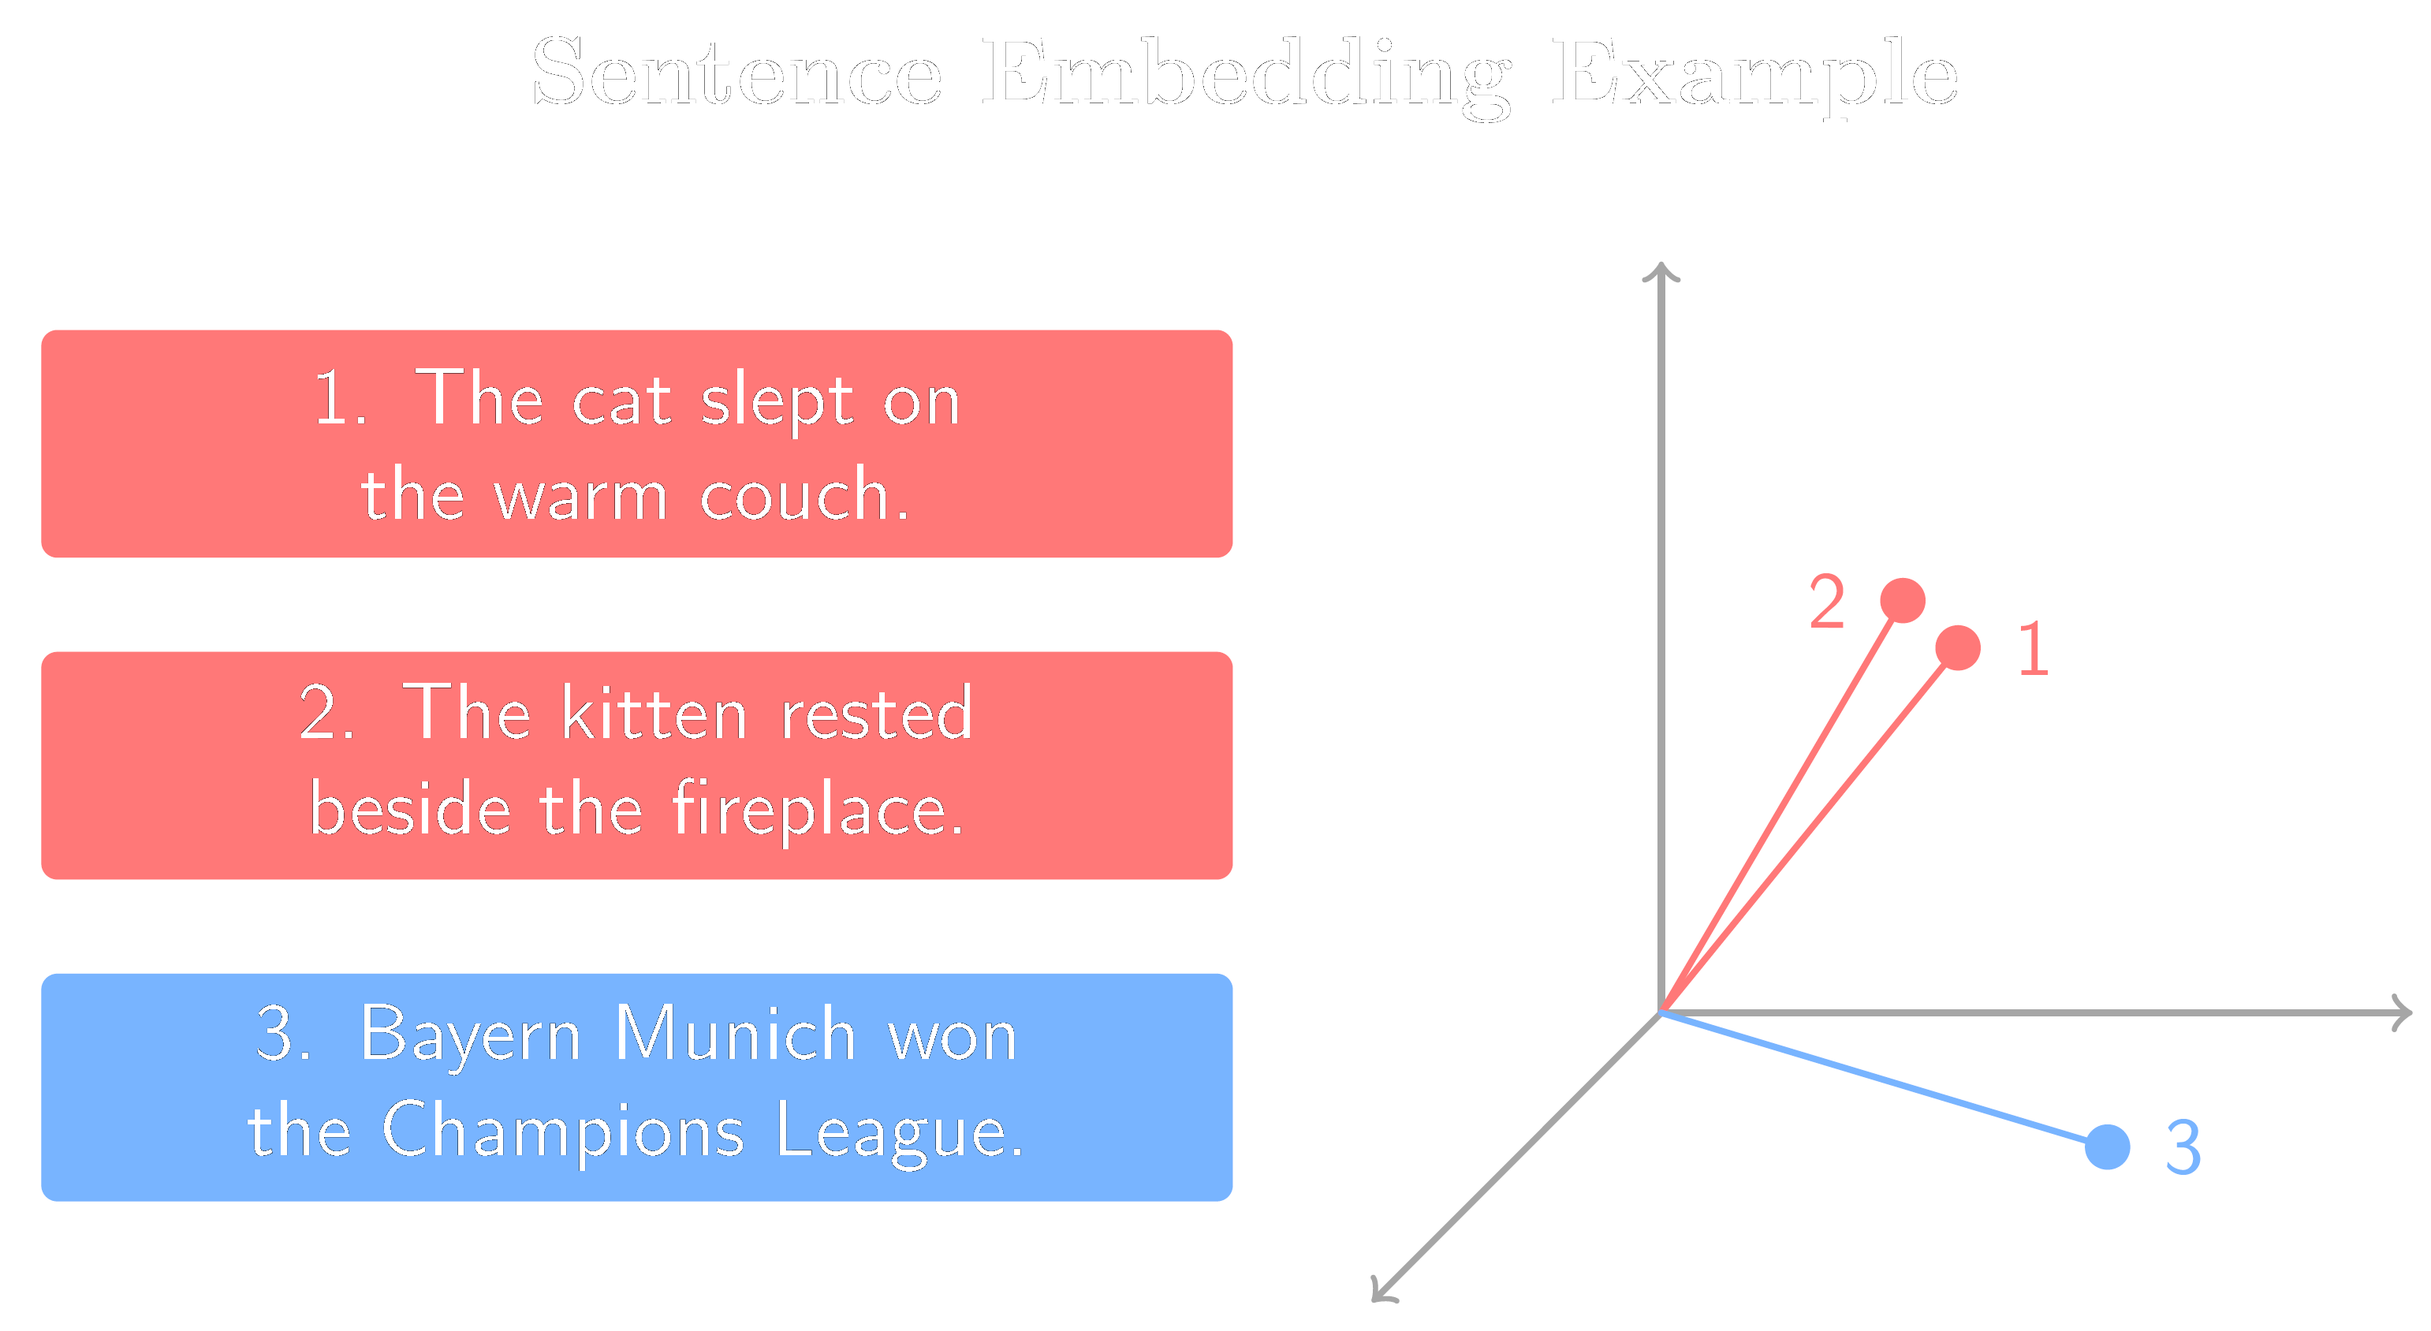
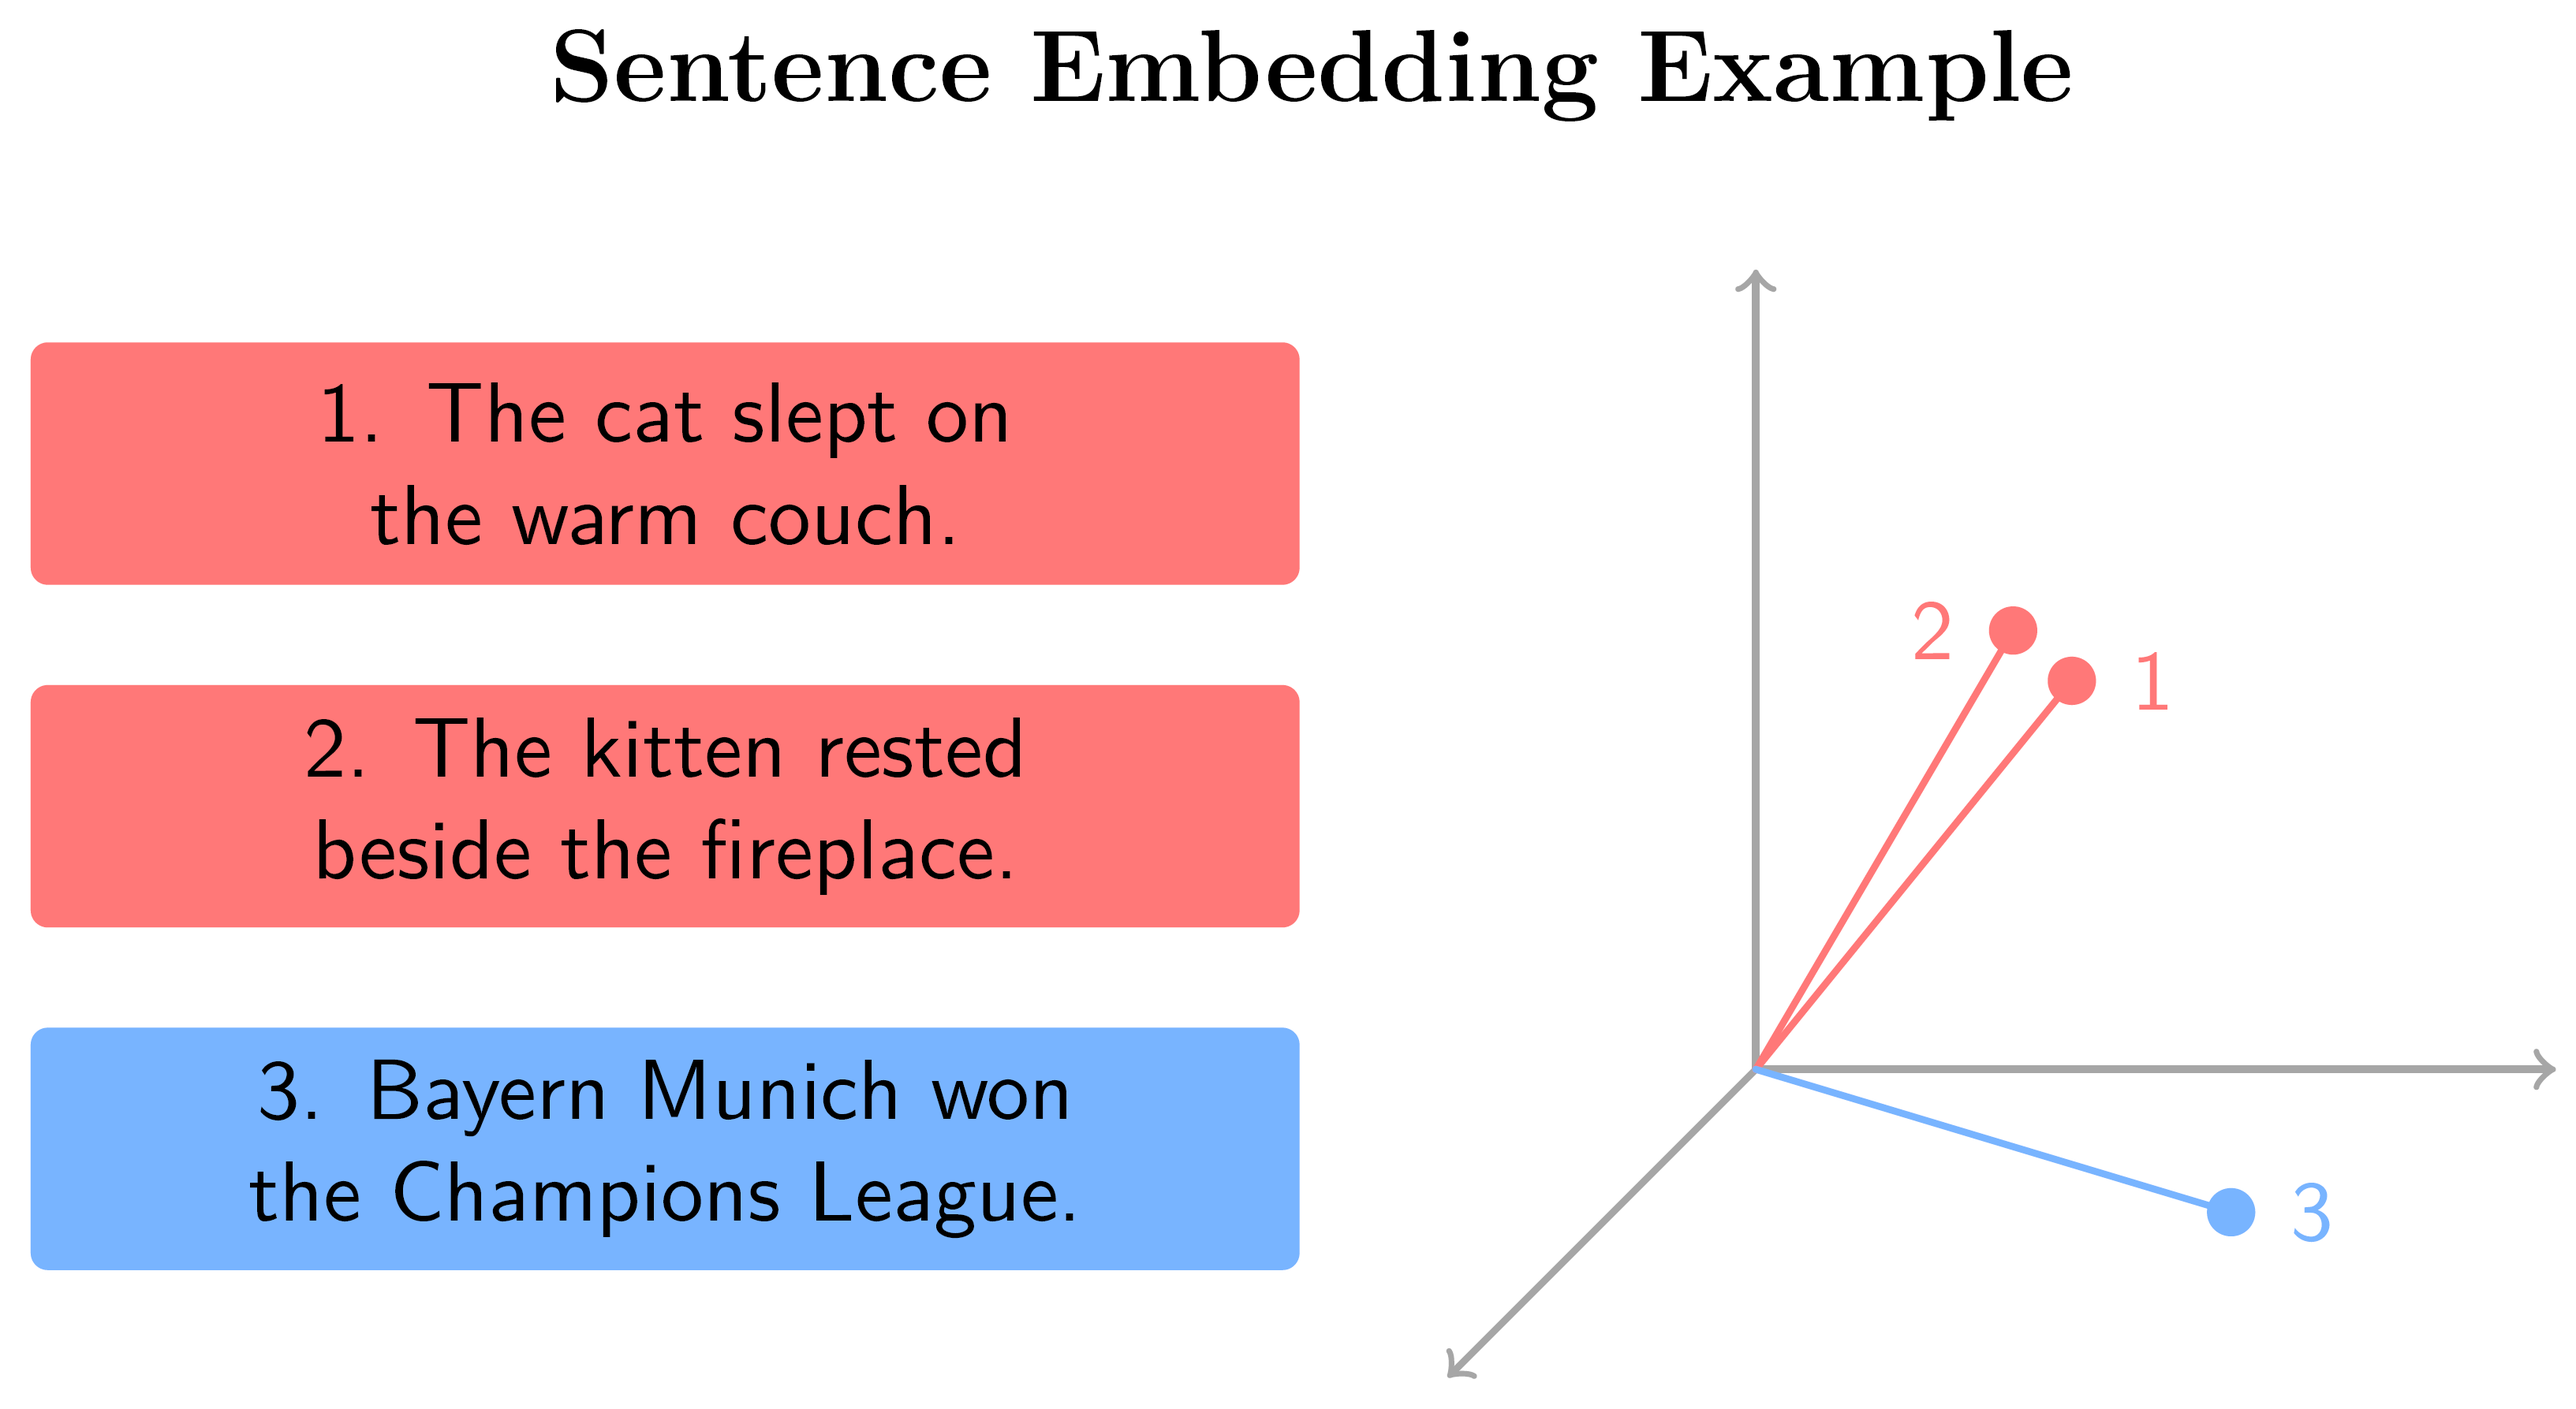
improved readme for notebook

diff --git a/notebooks/README.md b/notebooks/README.md
@@ -2,6 +2,7 @@
 
 ## 📑 Inhaltsverzeichnis
 
+- [Überblick über Retrieval-Augmented Generation](#%C3%BCberblick-%C3%BCber-retrieval-augmented-generation-rag)
 - [Inhalt des Notebooks](#-inhalt-des-notebooks)
 - [Erforderliche API Keys](#-erforderliche-api-keys)
 - [Hugging Face Access Token erstellen](#-hugging-face-access-token-erstellen)
@@ -35,16 +36,18 @@ Icons von Flaticon. Verwendung im Rahmen des Zitatrechts (§ 51 UrhG). Diese Abb
 <p align="center">
    <img src="images/vectorspace.png" 
        alt="Sentence Embedding Example" 
-       width="850">
+       width="750">
    </p>
+
 *Abbildung: Visualisierung der semantischen Ähnlichkeit von Satz-Embeddings in einem dreidimensionalen Vektorraum.  
 Eigene Darstellung, inspiriert durch das Kursmaterial aus ["Retrieval Augmented Generation (RAG)"](https://www.coursera.org/learn/retrieval-augmented-generation-rag) von [DeepLearning.AI](https://www.deeplearning.ai/) auf [Coursera](https://www.coursera.org/).*
 
 <p align="center">
    <img src="images/vectorspace_question.png" 
        alt="Sentence Embedding Example with question" 
-       width="850">
+       width="750">
    </p>
+
 *Abbildung: Visualisierung der semantischen Ähnlichkeit von Satz-Embeddings in einem dreidimensionalen Vektorraum inklusive einer Frage.  
 Eigene Darstellung, inspiriert durch das Kursmaterial aus ["Retrieval Augmented Generation (RAG)"](https://www.coursera.org/learn/retrieval-augmented-generation-rag) von [DeepLearning.AI](https://www.deeplearning.ai/) auf [Coursera](https://www.coursera.org/).*
 
